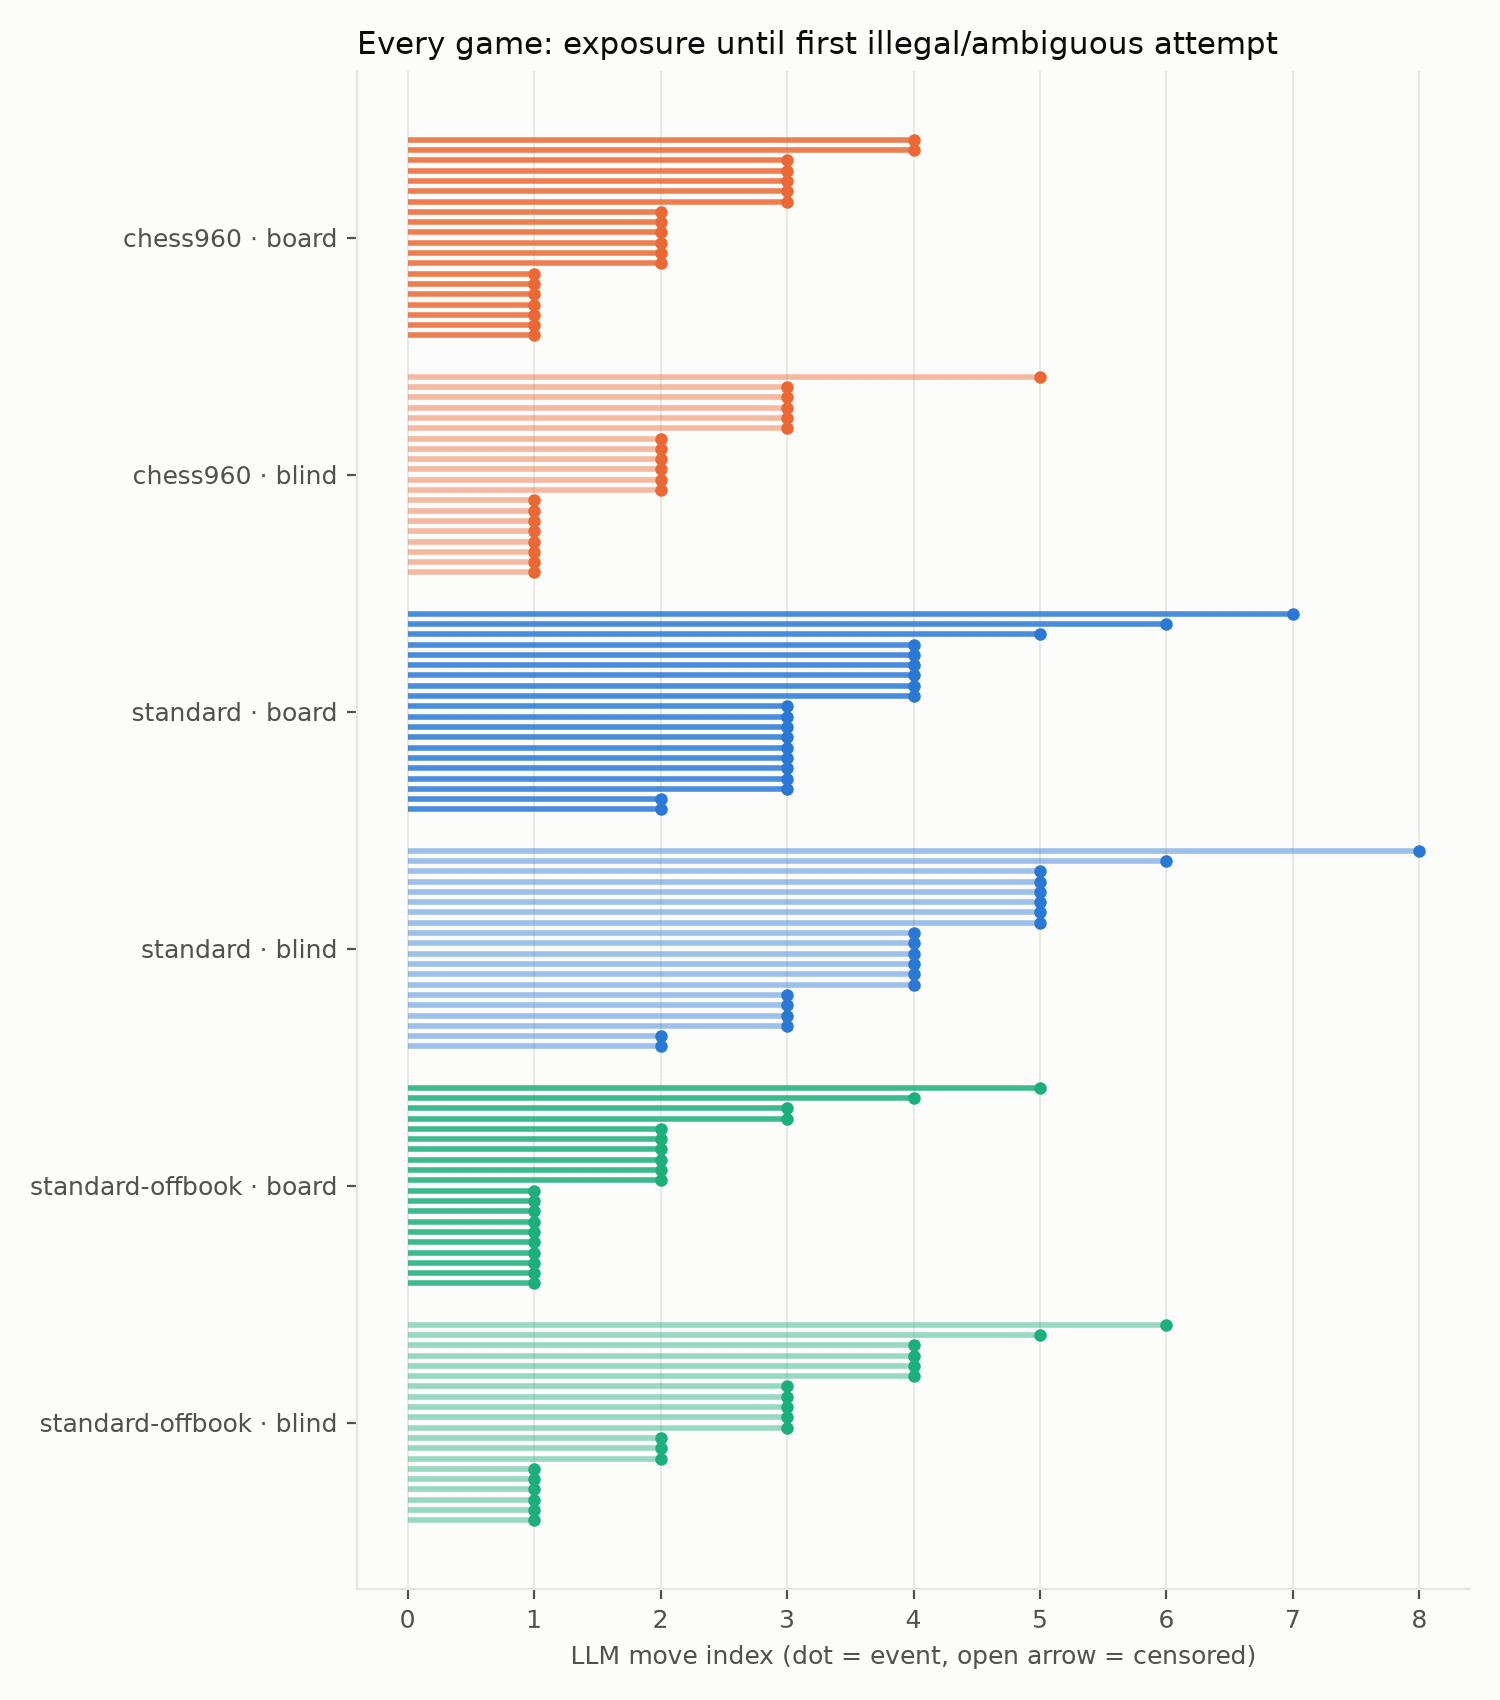
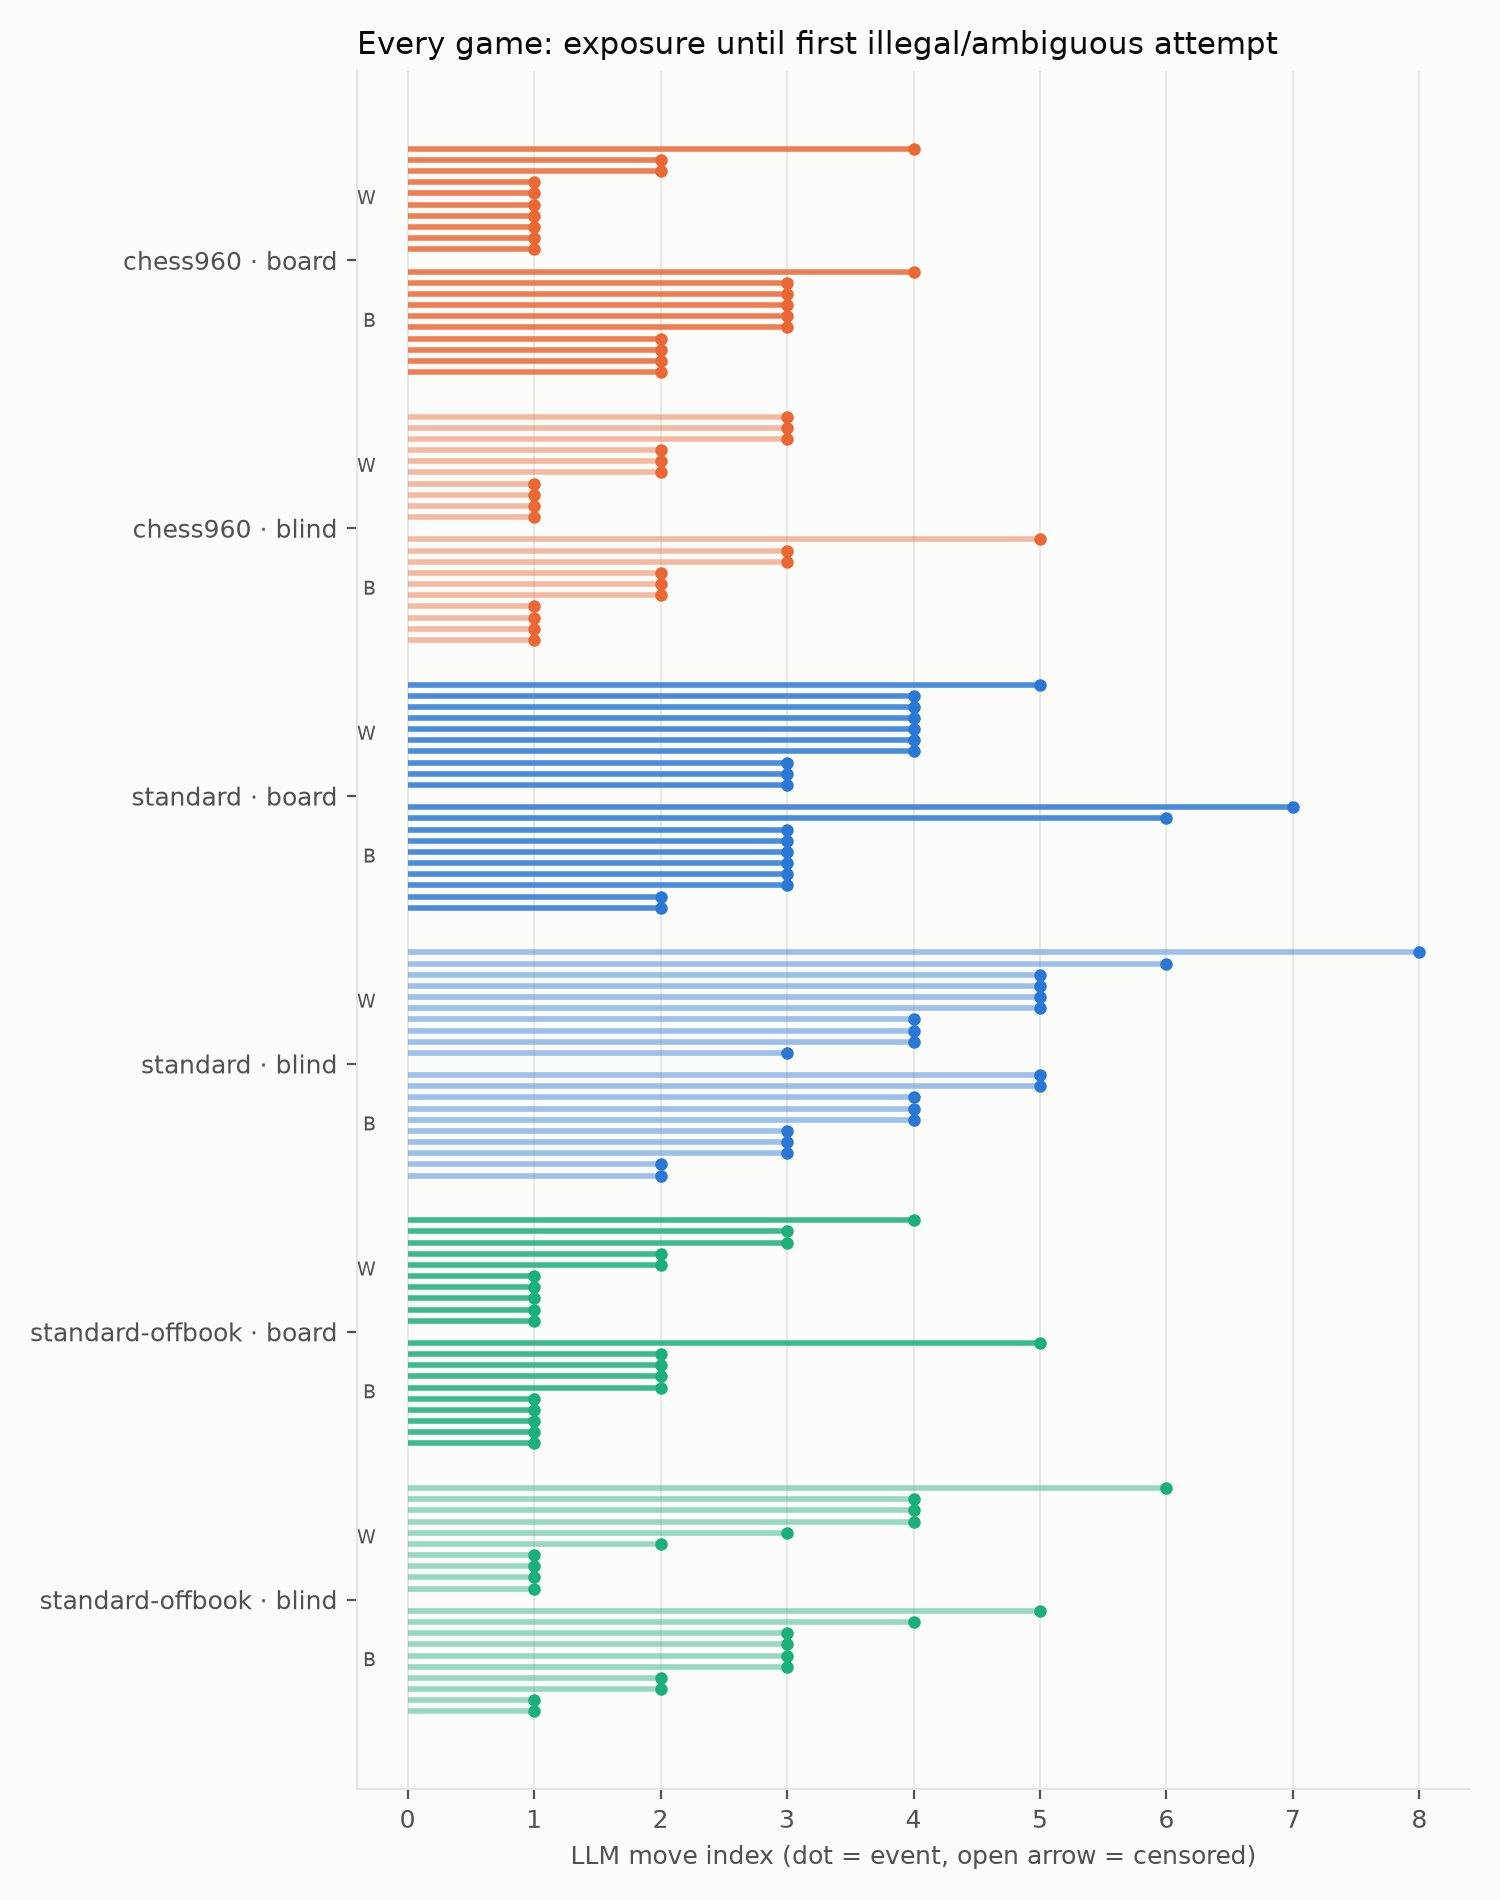
Games raster: show White/Black sub-blocks within each cell
Each cell now displays its as-White and as-Black silhouettes side by
side (W/B margin labels), making the color control visible in the raw
data rather than only as a Cox covariate.

Claude-Session: https://claude.ai/code/session_013ZNtfBskVgkuLRLCZJ9ZAf

diff --git a/chessbench/analysis.py b/chessbench/analysis.py
@@ -188,27 +188,38 @@ def games_raster(df, out_path: Path) -> None:
     import matplotlib.pyplot as plt
 
     cells = sorted(df["cell"].unique())
-    fig, ax = plt.subplots(figsize=(7.5, 8.5), dpi=200)
+    fig, ax = plt.subplots(figsize=(7.5, 9.5), dpi=200)
     y = 0
     yticks, ylabels = [], []
     for cell in cells:
-        sub = df[df["cell"] == cell].sort_values(["T", "E"], ascending=[False, True])
-        variant, visibility = sub.iloc[0]["variant"], sub.iloc[0]["visibility"]
+        cell_df = df[df["cell"] == cell]
+        variant, visibility = cell_df.iloc[0]["variant"], cell_df.iloc[0]["visibility"]
         color = VARIANT_COLOR.get(variant, INK_2)
         y_start = y
-        for _, r in sub.iterrows():
-            ax.hlines(y, 0, r["T"], color=color, linewidth=2,
-                      alpha=0.45 if visibility == "history-only" else 0.85)
-            if r["E"]:
-                ax.plot(r["T"], y, "o", color=color, markersize=3.5)
-            else:
-                ax.plot(r["T"], y, ">", color=color, markersize=4,
-                        markerfacecolor="none")
-            y += 1
-        yticks.append((y_start + y - 1) / 2)
+        # Sub-block per playing color: the color control, visible — each
+        # cell shows its as-White and as-Black silhouettes side by side.
+        for black in (0, 1):
+            sub = cell_df[cell_df["black"] == black].sort_values(
+                ["T", "E"], ascending=[False, True])
+            if sub.empty:
+                continue
+            block_start = y
+            for _, r in sub.iterrows():
+                ax.hlines(y, 0, r["T"], color=color, linewidth=2,
+                          alpha=0.45 if visibility == "history-only" else 0.85)
+                if r["E"]:
+                    ax.plot(r["T"], y, "o", color=color, markersize=3.5)
+                else:
+                    ax.plot(r["T"], y, ">", color=color, markersize=4,
+                            markerfacecolor="none")
+                y += 1
+            ax.text(-0.25, (block_start + y - 1) / 2, "B" if black else "W",
+                    ha="right", va="center", fontsize=7, color=INK_2)
+            y += 1  # thin gap between color blocks
+        yticks.append((y_start + y - 2) / 2)
         ylabels.append(cell.replace(" × history+board", " · board")
                        .replace(" × history-only", " · blind"))
-        y += 3  # gap between cells
+        y += 2  # gap between cells
     ax.set_yticks(yticks)
     ax.set_yticklabels(ylabels, fontsize=8, color=INK)
     ax.invert_yaxis()
